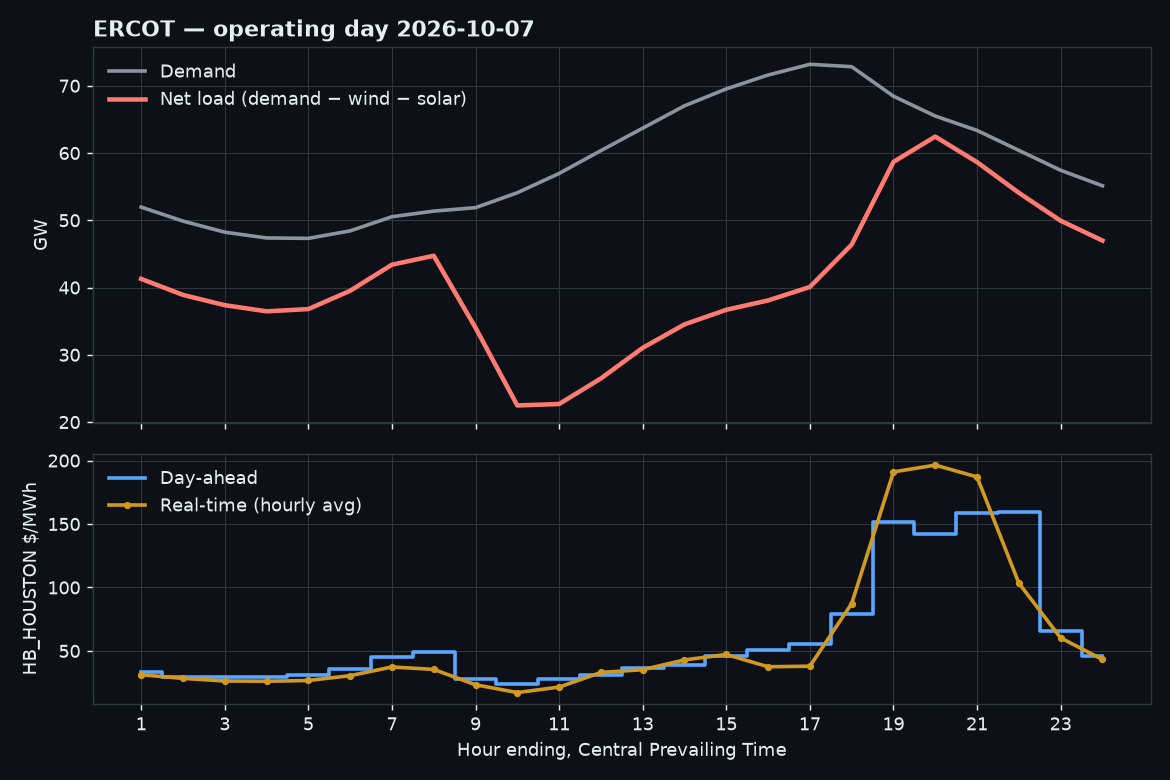
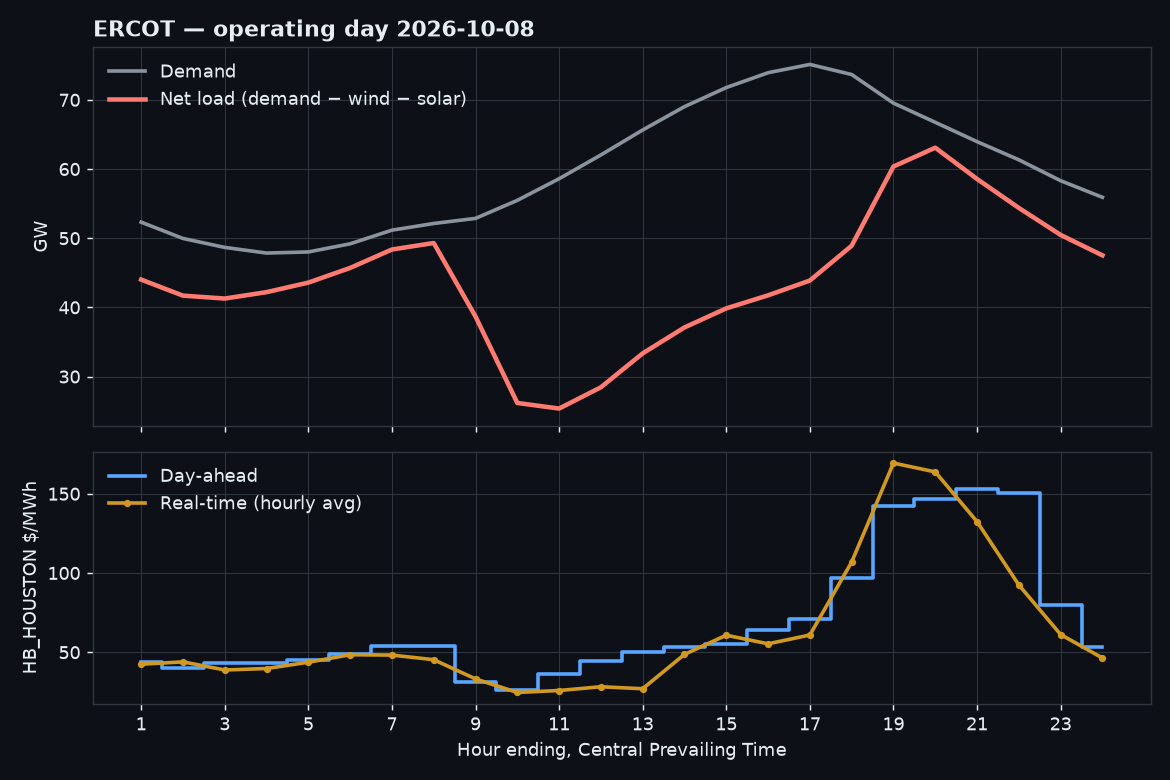
Recap for operating day 2026-10-08

diff --git a/README.md b/README.md
@@ -6,16 +6,16 @@ Yesterday in ERCOT, updated every morning: demand, net load (demand minus
 wind and solar), and the day-ahead versus real-time price at the Houston hub.
 
 <!-- RECAP:START -->
-**Operating day 2026-10-07** (hours ending, Central Prevailing Time)
+**Operating day 2026-10-08** (hours ending, Central Prevailing Time)
 
 <picture>
   <source media="(prefers-color-scheme: dark)" srcset="reports/latest-dark.png">
   <img alt="Yesterday's ERCOT demand, net load and Houston hub prices" src="reports/latest-light.png">
 </picture>
 
-- Demand peaked at **HE17** at 73.2 GW; net load peaked at **HE20** at 62.4 GW.
-- Evening ramp: net load rose **18.6 GW** from HE17 to HE21.
-- HB_HOUSTON: day-ahead averaged \$59.46/MWh, real-time \$58.64/MWh. Widest real-time minus day-ahead spread: **−\$56.43** at HE22.
+- Demand peaked at **HE17** at 75.1 GW; net load peaked at **HE20** at 63.1 GW.
+- Evening ramp: net load rose **14.7 GW** from HE17 to HE21.
+- HB_HOUSTON: day-ahead averaged \$67.82/MWh, real-time \$61.98/MWh. Widest real-time minus day-ahead spread: **−\$58.17** at HE22.
 <!-- RECAP:END -->
 
 ## Why net load
